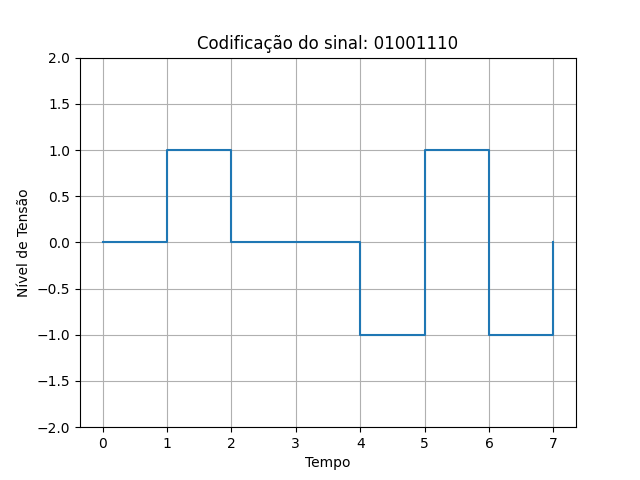
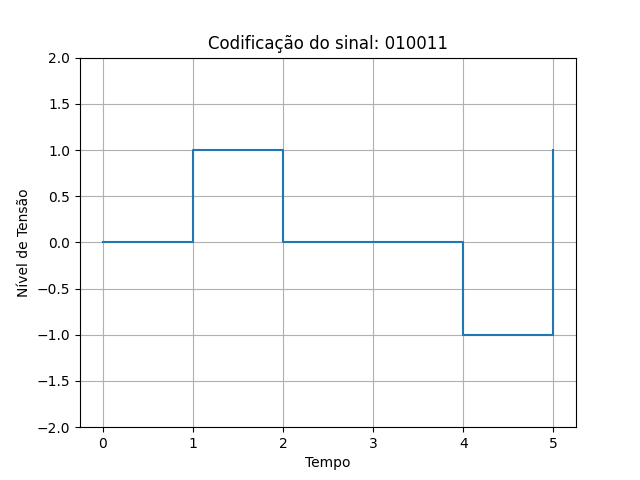
fixed manchester and manchester differential

diff --git a/Trabalho1/codificadores.py b/Trabalho1/codificadores.py
@@ -64,16 +64,34 @@ def manchester(bits: str) -> list[int]:
         if bit == '0':
             result.extend([1, -1])  
         else:
-            result.extend([-1, -1])  
+            result.extend([-1, 1])  
     return result
+
+# def manchester_differential(bits: str) -> list[int]:
+#     result = []
+#     current_level = 1
+#     for bit in bits:
+#         if bit == '0':
+#             current_level *= -1
+#         result.extend([current_level, -current_level])
+#     return result
 
 def manchester_differential(bits: str) -> list[int]:
     result = []
-    current_level = 1
+    level = 1  
+
     for bit in bits:
-        if bit == '0':
-            current_level *= -1
-        result.extend([current_level, -current_level])
+        bit = int(bit)
+        if bit == 0:
+            level = -level
+            result.append(level)  
+            level = -level
+            result.append(level)  
+        else:
+            result.append(level)  
+            level = -level
+            result.append(level)  
+
     return result
 
 def hdb3(bits: str) -> list[int]:
@@ -124,9 +142,9 @@ def mlt_3(bits: str) -> list[int]:
 
     Pseudoternário - WORKING
 
-    Manchester - FIX 
+    Manchester - WORKING 
 
-    Manchester Diferencial - WORKING ? 
+    Manchester Diferencial - WORKING 
 
     b8zs - WORKING ?
 

diff --git a/Trabalho1/main.py b/Trabalho1/main.py
@@ -1,7 +1,7 @@
 from codificadores import b8zs, nrz_l, nrz_i, ami, pseudoternary, manchester, manchester_differential, hdb3, mlt_3
 from plot import plot_sinal
 
-bits = "01001110"
+bits = "010011"
 sinal_b8zs = b8zs(bits)
 sinal_nrzl = nrz_l(bits)
 sinal_nrzi = nrz_i(bits)
